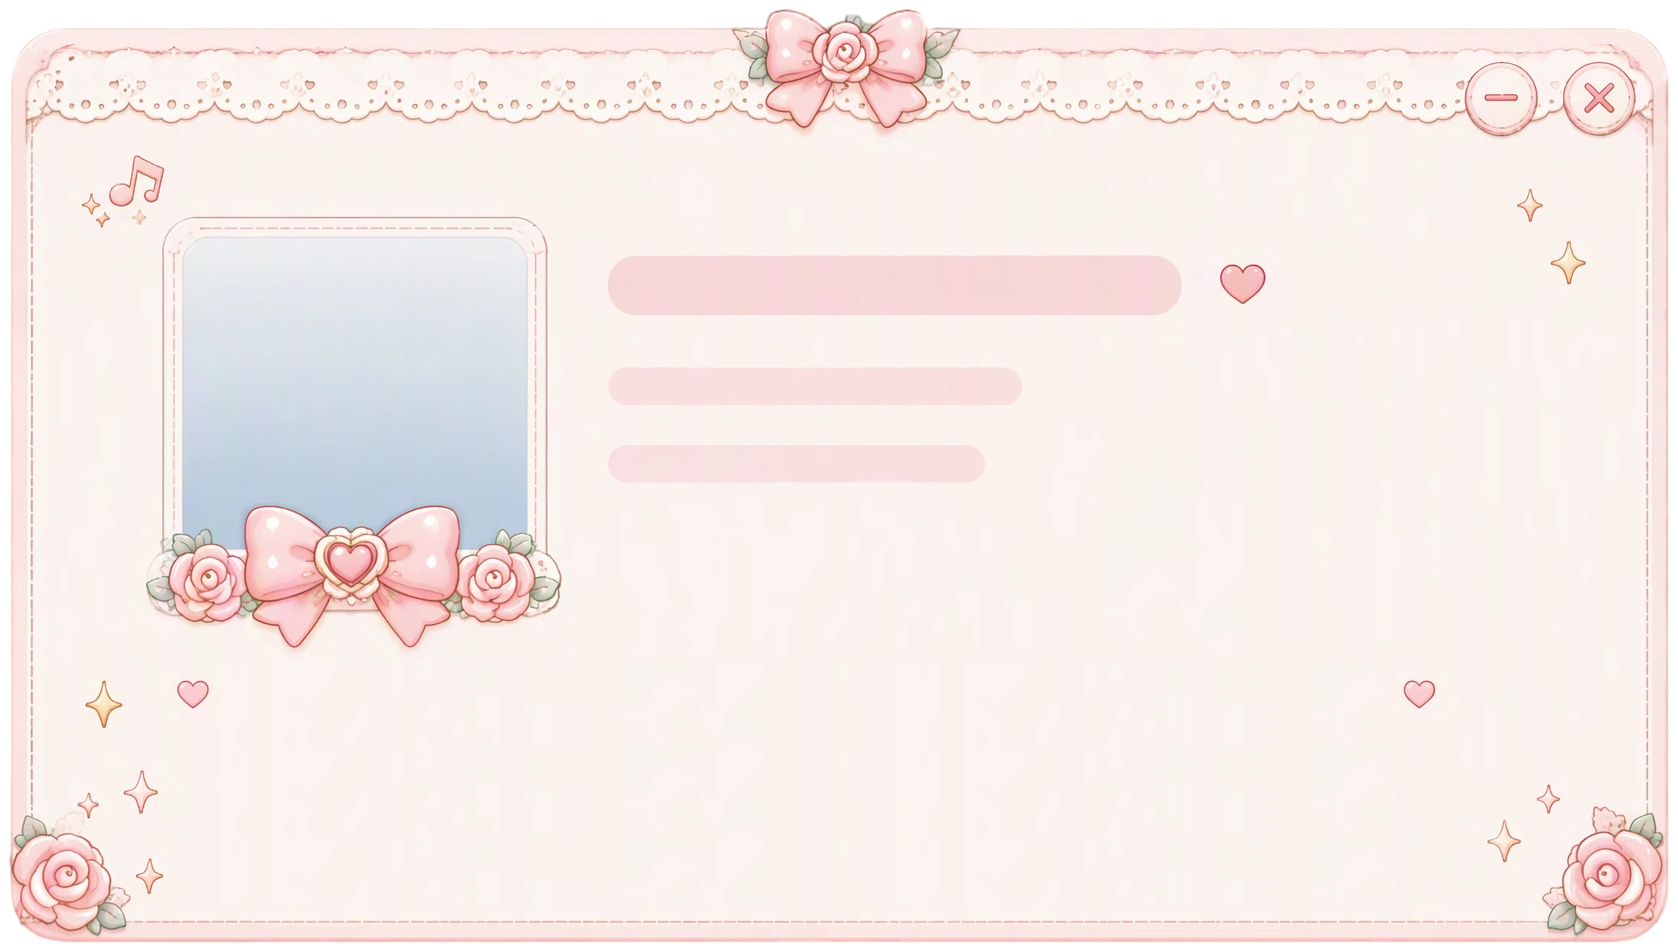
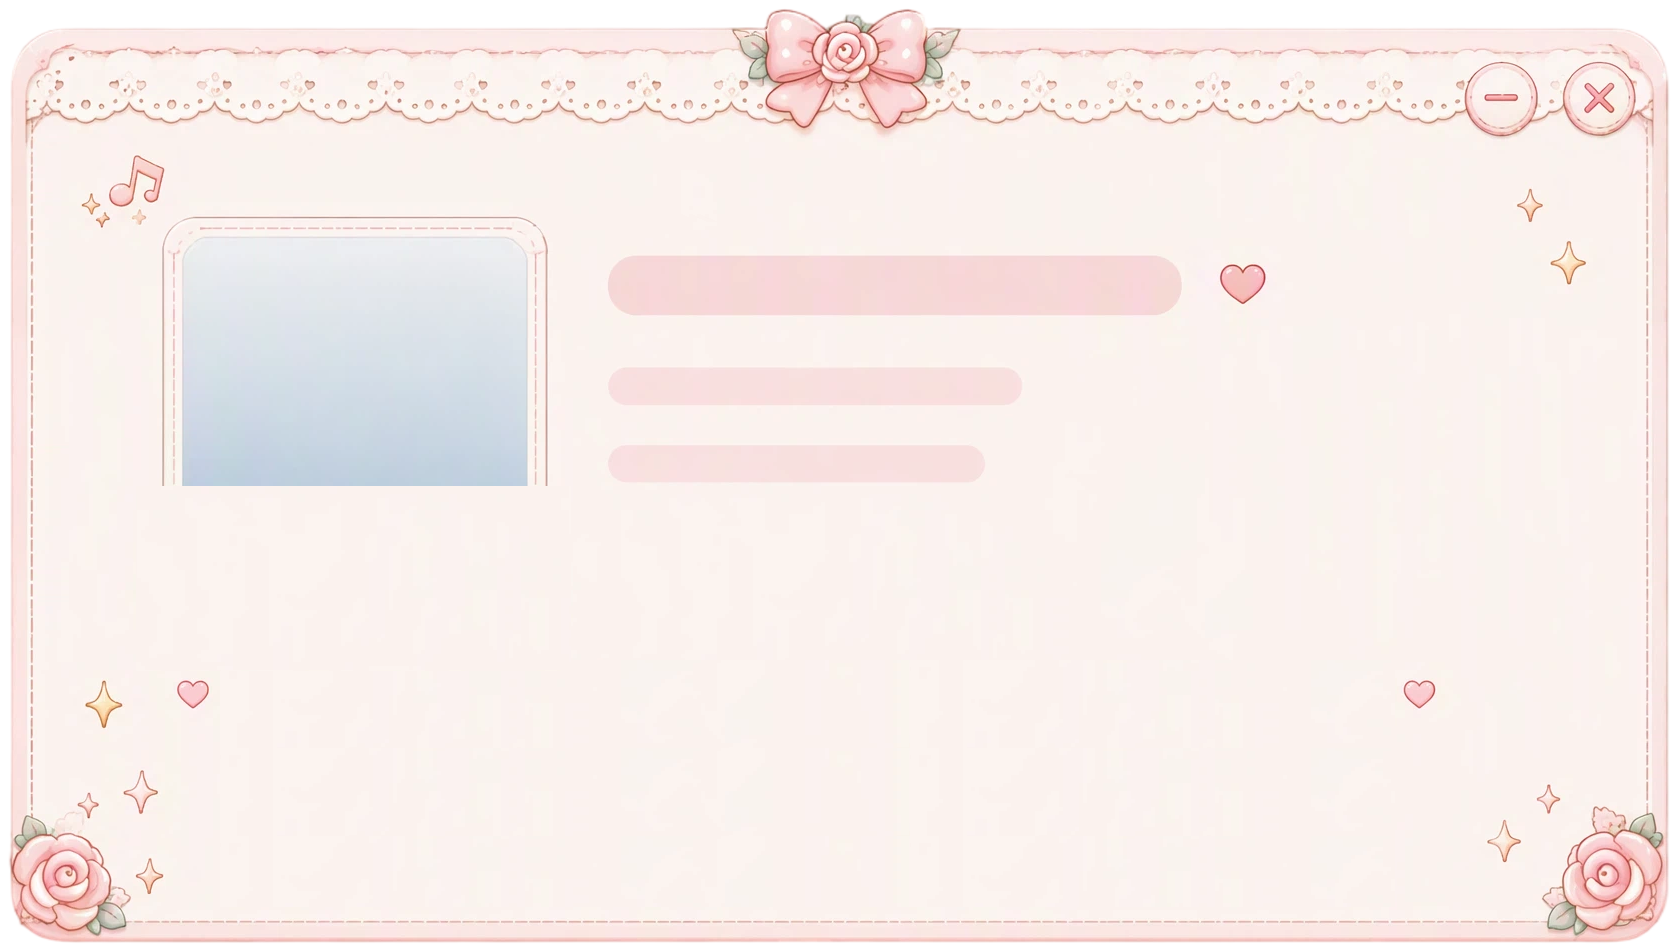
fix: 音乐封面前景遮挡修复

Changed region(s): [[0.062, 0.4879, 0.3409, 0.7014]]

diff --git a/HANDOVER.md b/HANDOVER.md
@@ -424,3 +424,11 @@ API 是 **`DisplayServer.window_set_mouse_passthrough(region: PackedVector2Array
 - 角色透明的根因是基础待机动画原先在运行时用 `DirAccess` 扫描 `assets/sprites/**/*.png`。Release 导出把 PNG 转成内部纹理资源后，原始 `.png` 不再能按开发目录方式枚举，因此角色动画库为空，但气泡仍能显示。新增 `tools/build_pet_sprite_frames.gd`，构建前把待机、移动、睡觉、娱乐、骑龙和人狗互动合并为 `assets/runtime/pet_sprite_frames.tres`；当前共 19 个动画、185 帧。`scripts/pet.gd` 发布运行时优先加载该静态资源，开发环境仍保留动态构建回退。
 - `project.godot` 的运行图标改为 `release/app_icon.png`；`tools/build_app_icon.ps1` 现在生成包含 `16/32/48/64/128/256` 六个 PNG 图层的 ICO。Godot 导出不再报告图标尺寸缺失，安装后 EXE 提取图标已确认为桌宠头像。
 - 最终 Release 透明窗口使用 Windows `PrintWindow(PW_RENDERFULLCONTENT)` 检查合成表面：窗口标题为 `DesktopPet`，角色主体采样像素 3137、彩色主体像素 1437，日志错误数 0。安装包隔离安装后的 EXE 再次检查为主体像素 3138、彩色像素 1454，安装目录无 `.env`、临时 EXE 或 `*.TMP`；静默卸载退出码 0 且安装目录已移除。
+
+## 2026-08-12 音乐封面前景遮挡修复
+
+- 修改前完整备份：`D:\game creat\DesktopPet_backup_20260812-132748`。
+- `scripts/music_player_panel.gd` 将封面区域调整为 `168x166`，使封面继续延伸到相框底部装饰后方；新增独立的前景装饰层，使用 `bow_large.png` 和左右两枚 `rose.png` 覆盖封面底部，形成蝴蝶结与玫瑰压在唱片封面前面的真实层级。
+- `tools/build_music_player_background.ps1` 会清除原底图中烘焙的相框底部蝴蝶结与花簇，避免运行时前景装饰出现双层重影；`tools/build_windows_release.ps1` 在发布构建前自动重建播放器底图。
+- 播放器来源标签改用 `Microsoft YaHei UI` / `Segoe UI` 系统字体，避免原可爱字体把 `QQ音乐` 的拉丁字母 `Q` 显示成方框装饰字形。
[1 lines of base64/hex data omitted]
